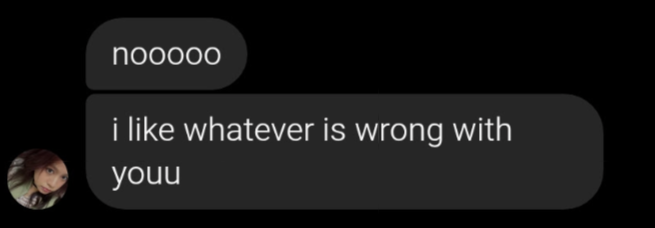
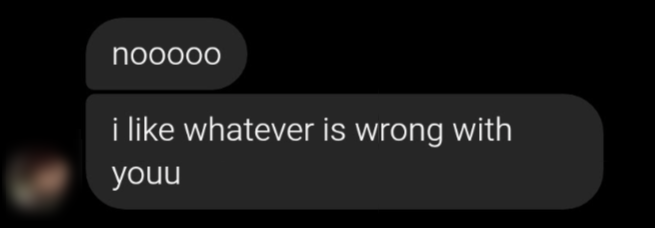
feat: Introduce writing processing workflow, add a new article, update existing content, and remove an old script configuration.

Changed region(s): [[0.0, 0.6754, 0.1221, 0.9518]]

diff --git a/content/Write/A Week in Cikembang.md b/content/Write/A Week in Cikembang.md
@@ -7,16 +7,16 @@ title: A Week in Cikembang
 publish_external: true
 ---
 
-During high school, I joined a program where we stayed for a week in a rural village called Cikembang to experience local life. My group was hosted by an elderly couple who lived with their young grandchild. I can’t remember what happened to the parents, but the grandchild stood out—funny, talkative, and full of silly stories. He told us he dreamed of becoming a policeman.
+During high school, I joined a school program that sent us to live for a week in a rural village called Cikembang. The idea was simple: experience village life firsthand. My group stayed with an elderly couple who lived with their young grandchild. I never learned what had happened to the child’s parents, but the boy himself left a strong impression—loud, funny, endlessly talkative, always ready with a ridiculous story. He proudly told us he wanted to become a policeman someday.
 
-Most of our days blurred together. I barely helped with anything and spent a lot of time eating and sleeping. The school had paid the hosts to let us learn about farming, but the grandfather often went to the fields alone without involving us. I stayed with two classmates I wasn’t close to; one of them was a heavy smoker.
+Most days passed in a blur. I wasn’t particularly helpful and spent much of my time eating, sleeping, or simply observing. The school had paid our hosts so we could learn about farming, but the grandfather usually went to the fields alone. We rarely followed. I shared the house with two classmates I barely knew; one of them was a heavy smoker.
 
-When we had free time, my classmates invited their friends over to the house. They smoked indoors and even taught the grandchild swear words. I hated it.
+Whenever we had free time, my classmates invited their friends over. Cigarettes were lit inside the house, smoke hanging in the air. Worse, they taught the grandchild how to swear, laughing as he repeated the words. That bothered me deeply, but I didn’t know how to speak up.
 
-The religious atmosphere in the village felt unfamiliar. Many of my school friends were Salafi Muslims, and they saw several local practices as *bid’ah*. People brought stones into the mosque and performed rituals I had never seen before.
+The village’s religious life also felt unfamiliar. Many of my friends at school were Salafi Muslims, and they often labeled local traditions as *bid’ah*. In Cikembang, people brought stones into the mosque and practiced rituals I had never seen before. I didn’t fully understand them, but I could sense the tension between what I had been taught was “correct” and what people here lived every day.
 
-Everything was manageable until the school assignments came in. We had to interview our hosts about their work, income, and living conditions. The family grew potatoes and several other vegetables. Our meals were simple—mostly potatoes, rice, and instant noodles, with almost no protein. I assumed eggs or other protein sources were too expensive for them to serve regularly.
+Everything remained tolerable until the assignments arrived. We were required to interview our host family about their work, income, and living conditions. The couple grew potatoes and a few other vegetables. Our meals reflected that reality: potatoes, rice, instant noodles—simple, repetitive, and almost entirely without protein. I assumed eggs or meat were luxuries they couldn’t afford regularly.
 
-Despite being a smoker and the “bad boy” type, my classmate led most of the conversation with the family. He had strong social skills and was well-known at school, while I was the quiet STEM kid. At night, the cold was brutal. I slept in a sleeping bag and still shivered, while my friend stayed up chatting with the grandfather and smoking, keeping me awake.
+Ironically, the classmate who led the interview was the smoker—the so-called “bad boy.” He was confident, socially skilled, and well known at school. I was the quiet STEM kid, more comfortable with numbers than conversations. At night, the cold was merciless. Even inside a sleeping bag, I shivered. Meanwhile, my friend stayed up late smoking and chatting with the grandfather, the sound of their voices seeping through the dark and keeping me awake.
 
-From what they told us, their monthly income was uncertain—somewhere around one to three million rupiah. Still, because they grew much of their own food, they had a degree of security. They might not earn much, but they didn’t go hungry.
+From what we gathered, their monthly income was unstable—somewhere between one and three million rupiah. It wasn’t much. Still, because they grew much of their own food, they had a kind of security. They didn’t earn a lot, but they didn’t go hungry either. That quiet resilience stayed with me long after the week ended.

diff --git a/content/Write/jangan-bohong-gema-kejujuran.md b/content/Write/jangan-bohong-gema-kejujuran.md
@@ -1,0 +1,35 @@
+---
+title: "Jangan Bohong: Gema Kejujuran di Tengah Reruntuhan Digital"
+date: 2021-07-09
+tags: ["kejujuran", "media sosial", "teknologi", "masyarakat", "refleksi"]
+---
+
+Di sebuah ruang kelas sekolah dasar yang hangat, suara Bu Hetty masih terngiang jelas. Saat itu, Facebook sedang berada di puncak popularitasnya. Kami, anak-anak yang haus akan pengakuan dunia luar, berebut ingin membuat akun. Namun, Bu Hetty berdiri di depan kelas dengan raut serius, memberikan sebuah mandat sederhana namun absolut: "Jangan bohong." Beliau menasihati kami untuk tidak menyentuh media sosial itu karena untuk mendaftar, kami harus memalsukan tanggal lahir—sebuah kebohongan administratif yang dianggap sepele oleh dunia, namun dipandang sebagai retakan moral oleh Bu Hetty.
+
+Dahulu, saya mungkin menganggapnya sebagai kekhawatiran yang berlebihan. Namun, setelah dewasa dan menyaksikan bagaimana dunia bekerja, saya menyadari bahwa nasihat itu bukanlah sekadar "saran" orang tua yang kolot. Itu adalah sebuah peringatan dini tentang kehancuran struktural peradaban yang dimulai dari satu klik kebohongan.
+
+### Dari Data Palsu Menuju Distopia Sosial
+
+Kebohongan tentang usia di akun media sosial adalah "dosa asal" dalam ekosistem digital kita. Saat kita memulainya dengan menipu algoritma, kita sebenarnya sedang membangun identitas di atas fondasi pasir. Media sosial kini telah menjelma menjadi entitas yang destruktif bagi masyarakat. Ia bukan lagi sekadar alat komunikasi, melainkan mesin amplifikasi kebohongan.
+
+Kejujuran yang dulu menjadi komoditas dasar hubungan manusia kini tergerus oleh curated reality. Kita tidak hanya memalsukan data lahir, tapi juga memalsukan kebahagiaan, opini, dan eksistensi. Akibatnya, kebohongan ini tidak lagi bersifat personal, melainkan sistemik. Masyarakat kehilangan kemampuan untuk membedakan antara yang hakiki dan yang ilusi.
+
+### Hukum Tuhan: Bukan Sekadar Saran, Melainkan Fondasi Realitas
+
+Dalam melihat perspektif ini, seringkali kita salah menempatkan Al-Qur'an dan Hadis hanya sebagai "nasehat bijak" atau "saran moral" yang opsional. Padahal, bagi jiwa yang menyadari kedalaman maknanya, perintah-perintah tersebut adalah hukum alam yang bersifat mutlak.
+
+Ambil contoh larangan mengenai "gambar" atau representasi visual yang dalam esensi teologisnya sering dikaitkan dengan upaya "menyaingi" Sang Pencipta. Namun, jika kita melihat lebih jauh, ini adalah peringatan tentang bahaya ketika manusia mencoba menciptakan realitas buatan (simulacra) yang akhirnya justru membelenggu mereka sendiri. Ketika hamba-hamba-Nya mulai bertarung demi citra, demi representasi yang semu, maka segala sesuatunya akan binasa. Perang ego di media sosial, disinformasi visual, hingga manipulasi AI adalah bentuk modern dari "perang antar budak" yang merusak tatanan penciptaan.
+
+### Kiamat Kepercayaan: Jurang Pengetahuan dan Pilihan Child-Free
+
+Interpretasi terhadap tanda-tanda akhir zaman juga perlu diperluas melampaui makna harfiah. Hadis tentang anak yang memperlakukan orang tuanya seperti "tuan" (anak durhaka) dapat dibaca melalui lensa sosiologi teknologi kontemporer. Saat ini, terjadi knowledge gap yang sangat ekstrem antara generasi tua dan muda akibat percepatan teknologi.
+
+Anak-anak tumbuh dengan pengetahuan teknis yang melampaui pemahaman orang tua mereka, menciptakan posisi tawar yang timpang. Ketika orang tua tidak lagi mampu menjadi "jangkar" kebenaran karena tertinggal oleh arus informasi digital, maka hancurlah otoritas dan rasa hormat. Hubungan yang paling sakral—orang tua dan anak—menjadi rapuh.
+
+Ketidakpercayaan (distrust) ini merembet ke segala arah. Masyarakat tidak lagi percaya pada tetangganya, rakyat tidak percaya pada pemerintah, dan individu tidak percaya pada sistem ekonomi dan keuangan global yang dianggap sebagai skema spekulasi raksasa. Inilah yang melahirkan fenomena child-free. Keputusan untuk tidak memiliki anak bukan sekadar tren gaya hidup, melainkan manifestasi dari rasa putus asa terhadap masa depan. Mengapa harus menghadirkan jiwa baru ke dalam dunia di mana kepercayaan telah mati dan hubungan antarmanusia telah hancur oleh kebohongan sistemik?
+
+### Penutup
+
+Pesan Bu Hetty di masa SD itu kini terdengar seperti nubuat yang sangat relevan. "Jangan bohong" bukan hanya tentang moralitas individu, melainkan tentang menjaga satu-satunya lem yang merekatkan masyarakat: Kepercayaan.
+
+Tanpa kejujuran, teknologi hanya akan menjadi alat penghancur massal bagi kewarasan kolektif. Kita harus mulai memandang nilai-nilai spiritual bukan sebagai nasehat masa lalu, melainkan sebagai hukum besi yang jika dilanggar, akan meruntuhkan atap peradaban di atas kepala kita sendiri. Mungkin sudah saatnya kita berhenti memalsukan tanggal lahir—dan identitas kita—untuk sekadar diterima di dunia semu, dan mulai kembali pada kebenaran yang nyata.

diff --git a/.agent/workflows/process-writing.md b/.agent/workflows/process-writing.md
@@ -1,0 +1,28 @@
+---
+description: Smartly process user writing to generate title, tags, and save as a markdown file.
+---
+
+1.  **Ingest Content**:
+    - If the user provides text directly, use that.
+    - If the user provides a file path, read the file content.
+
+2.  **Generate Metadata (Internal Thought Process)**:
+    - **Title**: specific, descriptive, and engaging title based on the content.
+    - **Tags**: Generate 3-5 relevant tags (lowercase).
+    - **Slug**: Create a filename-safe slug from the title (e.g., `my-title.md`).
+    - **Date**: Use the current date in YYYY-MM-DD format.
+
+3.  **Create File**:
+    - **Target Directory**: `/home/al/Projects/digital-graveyard/content/Write`
+    - **Frontmatter**:
+      ```markdown
+      ---
+      title: "[Title]"
+      date: [YYYY-MM-DD]
+      tags: [tag1, tag2, tag3]
+      ---
+      ```
+    - **Action**: Use the `write_to_file` tool to save the new file with the generated filename in the target directory. The content should be the user's writing appended after the frontmatter.
+
+4.  **Finalize**:
+    - Notify the user of the new file location and the generated metadata (Title, Tags).

diff --git a/content/Write/Journal/2025-07-16.md b/content/Write/Journal/2025-07-16.md
@@ -4,7 +4,6 @@ date: 2025-07-16T13:38:10+07:00
 tags:
   - journal
 publish_external: true
-draft: true
 ---
 try to build gnome extension to fix grammar, but nothing works, im using claude and chatgpt. very lazy to fix, gnome app development is not straightforward, we have to know X11 wayland etc, the gnome shell version (im using gnome 48), ubuntu. and for wayland, after dev some scripts, we have to restart only to re enable the extension. gnome ngmi i think. idk for me personally i like gnome, but its a nightmare for dev, steep learning curve. makes me questioning how can lots of linux community grow. lots of options, for desktop environment: gnome, kde, etc. i amaze and respect much desktop developer and the autism of linux community.
 
